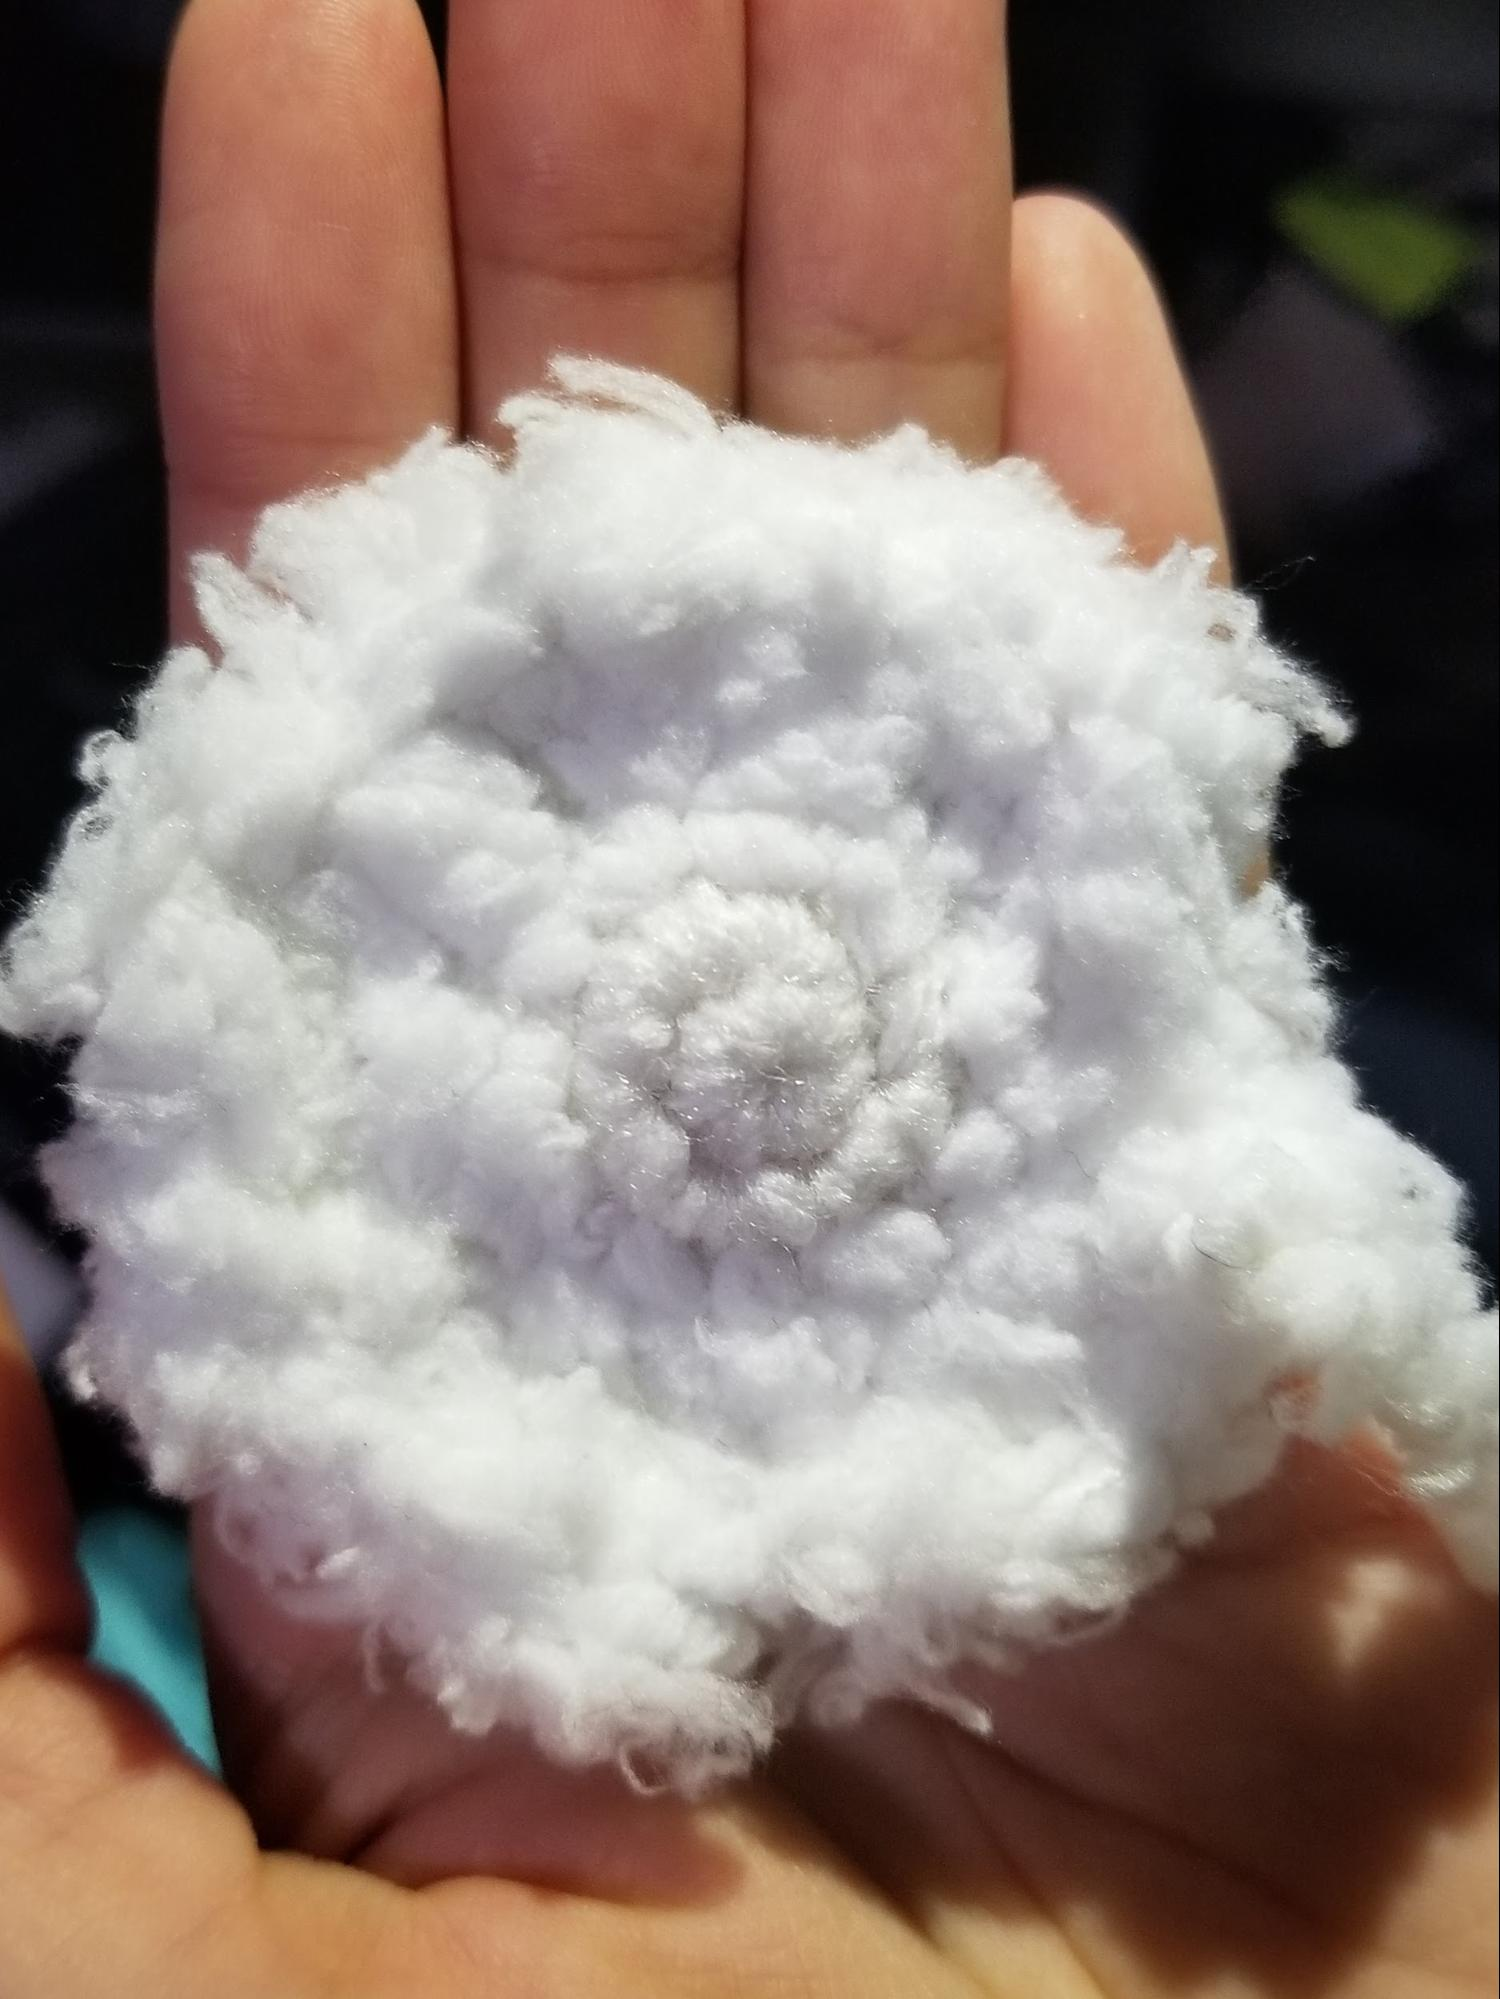
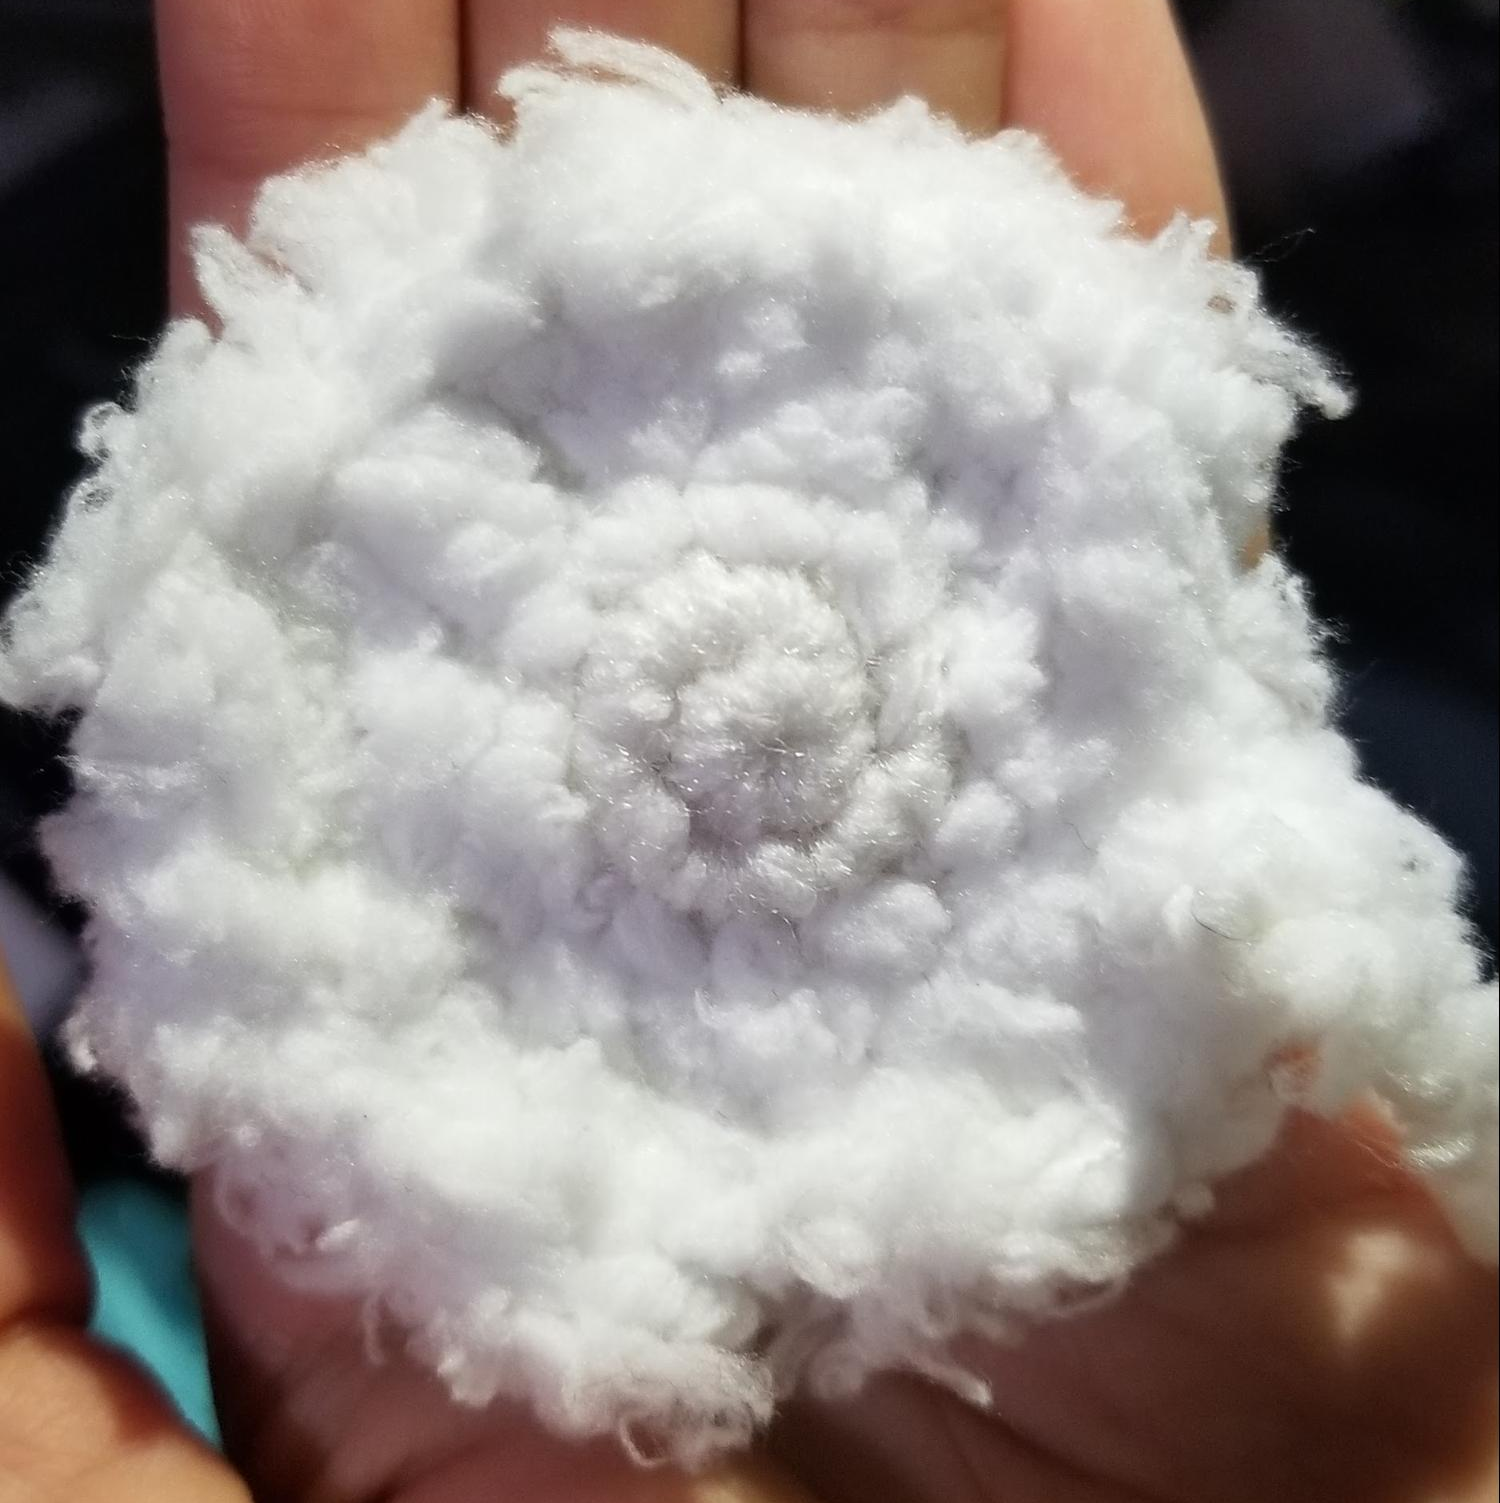
fixed image sizes on snowglobe and added card to the projects pg

diff --git a/projects/index.html b/projects/index.html
@@ -80,12 +80,66 @@
 <div class ="wrapper">
   <section class="section">
     <div class="container">
-      <h1 class="title is-2">
-        free patterns
-      </h1>
-      <p class="subtitle">
-        here are a few patterns provided free of charge! enjoy!
-      </p>
+      <div class ="content">
+        <h1 class="title is-2">
+          free patterns
+        </h1>
+        <div class="columns">
+          <div class ="column">
+            <dl>
+              <dt>Abbreviations</dt>
+              <dd>ch = chain</dd>
+              <dd>sl st= slip stitch</dd>
+              <dd>st = stitch</dd>
+              <dd>sc = single crochet</dd>
+              <dd>Sk = skip stitch</dd>
+              <dd>inc = single crochet increase</dd>
+              <dd>Fo = fasten off</dd>
+              <dd>dec = sc decrease / sc2tog / 2 sc together </dd>
+              <dd>hdc = half double crochet</dd>
+              <dd>dc = Double Crochet</dd>
+              <dd>dc-inc = double crochet increase</dd>
+              <dd>Tc = triple crochet</dd>
+            </dl>
+          </div>
+          <div class ="column">
+            <dl>
+              <dt>Most projects require</dt>
+              <dd>Stitch markers</dd>
+              <dd>Yarn needle</dd>
+              <dd>Fiberfill Stuffing</dd>
+              <dd>Stuffing tool (chopstick or pencil)</dd>
+              <dd>Glue gun (optional)</dd>
+              <dd>Pins</dd>
+              <dd>Safety eyes/Brads</dd>
+            </dl>
+          </div>
+        </div>
+        <div class ="columns">
+          <div class ="column is-half">
+            <div class="card">
+              <div class="card-image">
+                <figure class="image is-4by3">
+                              <a href="./snowglobe_ornaments/"><img src="./img/diyorna_card.png" alt="Placeholder image"></a>
+                </figure>
+              </div>
+              <div class="card-content">
+                <div class="media">
+                  <div class="media-content">
+                    <p class="title is-4"><a href="./snowglobe_ornaments/">DIY SNOW GLOBES/ORNAMENTS</a></p>
+                  </div>
+                </div>
+
+                <div class="content">
+                  need last minute #christmas gifts?! I made these DIY snow globe ornaments. cheap xmas supplies bought from acmoore and dollar tree. (bernat pipsqueak fluffy yarn was used).
+
+                </div>
+              </div>
+            </div>
+
+          </div>
+        </div>
+      </div>
     </div>
   </section>
 </div>

diff --git a/css/pkpieces.css b/css/pkpieces.css
@@ -35,3 +35,14 @@
 {
 	flex:1 ;
 }
+
+.card a
+{
+	color:#b5dfd6;
+}
+
+.card figure
+{
+	margin-left: 0;
+	margin-right: 0;
+}
